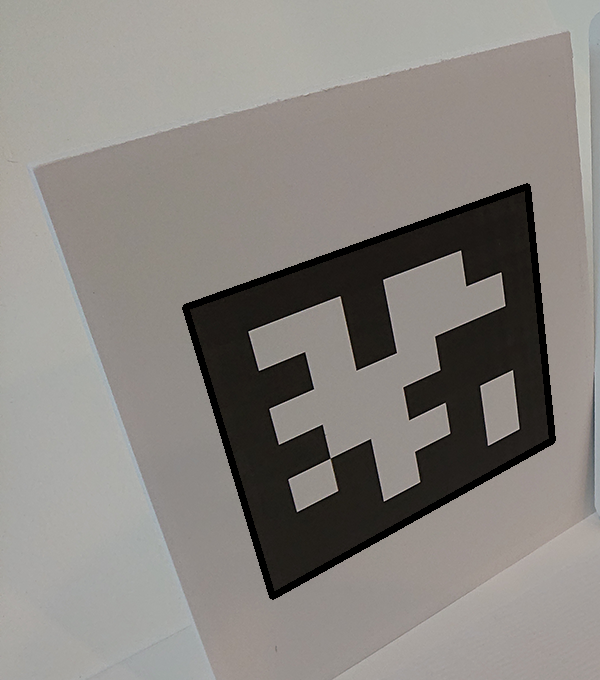
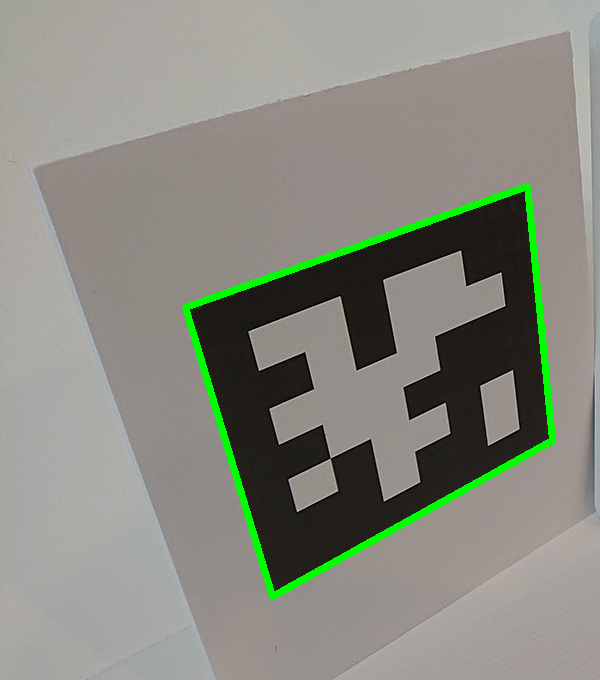
previous message lol

diff --git a/Camera_Code/main.py b/Camera_Code/main.py
@@ -9,7 +9,7 @@ from pi_camera.read_camera import capture_image_from_picam2
 
 #     imgDir = "pi_camera/read_camera/images/testIMG.png"
 
-#     # capture_image_from_picam2.read_Cam(imgDir)
+#     capture_image_from_picam2.read_Cam(imgDir)
 
 #     tags = read_april_tag.readTag(imgDir)
 
@@ -21,6 +21,32 @@ from pi_camera.read_camera import capture_image_from_picam2
 #     else:
 #         print("No AprilTag detected.")
 
+#     # Create Bounding Box
+
+#     corners_as_ints =[[None] * len(tags[0].corners) for _ in range(len(tags))]
+
+#     if tags:
+#         for i in range(len(tags)):
+#             for j in range(len(tags[0].corners)):
+                
+#                 corners_as_ints[i][j] = tuple(int(value) for value in tags[i].corners[j])
+                    
+
+#     image = cv2.imread(imgDir)
+#     green = (0, 255, 0)
+#     black = (0, 0, 0)
+#     line_size = 5
+
+
+#     for i in range(len(corners_as_ints)):
+#         cv2.line(image, corners_as_ints[i][0], corners_as_ints[i][1], green, line_size)
+#         cv2.line(image, corners_as_ints[i][1], corners_as_ints[i][2], green, line_size)
+#         cv2.line(image, corners_as_ints[i][2], corners_as_ints[i][3], green, line_size)
+#         cv2.line(image, corners_as_ints[i][3], corners_as_ints[i][0], green, line_size)
+
+
+#     cv2.imwrite('new.png', image)
+
 
 # RUN IF TESTING IMAGES
 
@@ -30,12 +56,12 @@ def main():
 
     tags = read_april_tag.readTag(imgDir)
 
-    # if tags:
-    #     for tag in tags:
-    #         print("Tag ID: ", tag.tag_id)
-    #         print("Tag Corners: ", tag.corners)
-    # else:
-    #     print("No AprilTag detected.")
+    if tags:
+        for tag in tags:
+            print("Tag ID: ", tag.tag_id)
+            print("Tag Corners: ", tag.corners)
+    else:
+        print("No AprilTag detected.")
 
     # Create Bounding Box
 
